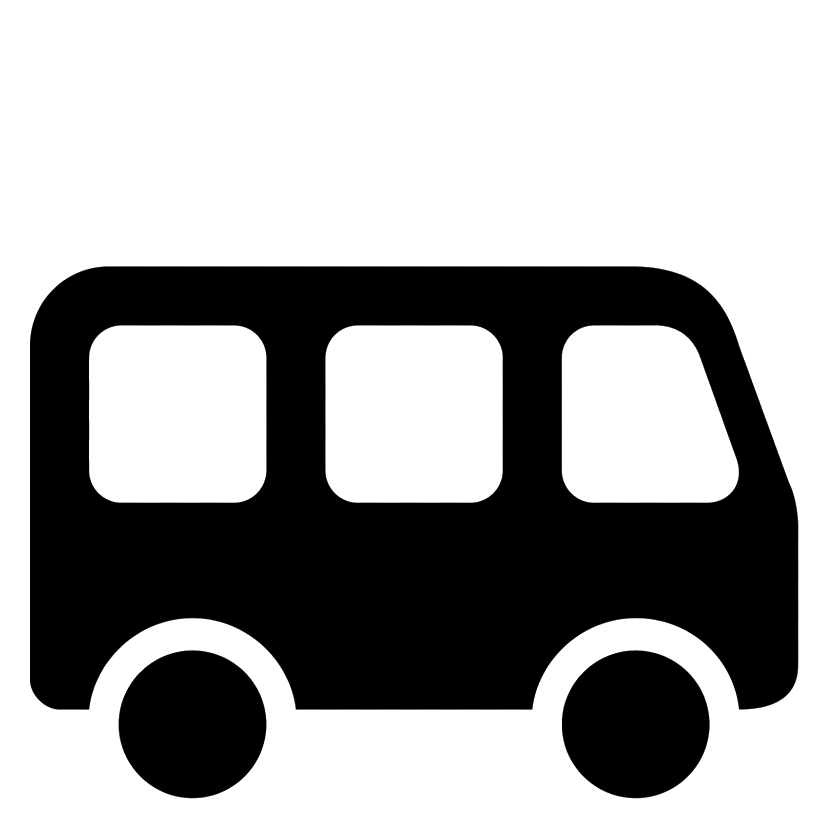
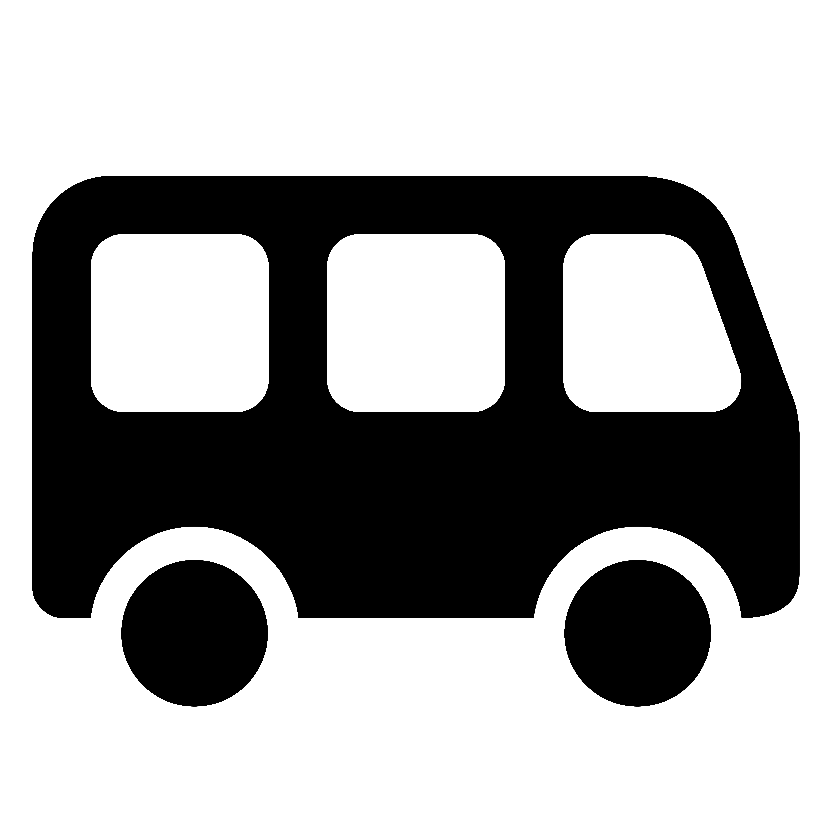
Fixed formatting

diff --git a/SEMOAPP/components/Tile.js b/SEMOAPP/components/Tile.js
@@ -5,13 +5,13 @@ import { TouchableOpacity, Image, StyleSheet, Text, View, Touchable } from 'reac
 export const Tile = (({name, src, fullscreen}) => {
     if(fullscreen)
     {
-        return(<View style={styles.container}>
-            <TouchableOpacity>
+        return(
+            <TouchableOpacity style={styles.fullscreenContainer}>
             <Image style={styles.fullLogo}
                    source={src}
            ></Image>
             </TouchableOpacity>
-        </View>);
+        );
     }
     else
     {
@@ -82,6 +82,17 @@ const styles = StyleSheet.create({
         margin: 0
   
       },
+      fullscreenContainer: {
+        flex: .3,
+        height: 100,
+        fontSize: 48,
+        fontWeight: 'bold',
+        backgroundColor: '#fff',
+        alignItems: 'center',
+        justifyContent: 'flex-end',
+        margin: 0
+  
+      },
       headerContainer: {
         flex: .35,
         height: 100,
@@ -121,8 +132,8 @@ const styles = StyleSheet.create({
         
     },
     fullLogo: {
-        width: 100,
-        height: 85,
+        width: 110,
+        height: 100,
     },
     
     headerLogo: {
@@ -130,6 +141,8 @@ const styles = StyleSheet.create({
         height: 65,
     },
     text: {
+        justifyContent: 'center',
+        alignSelf: 'center'
         //text formatting here
     }
   });
